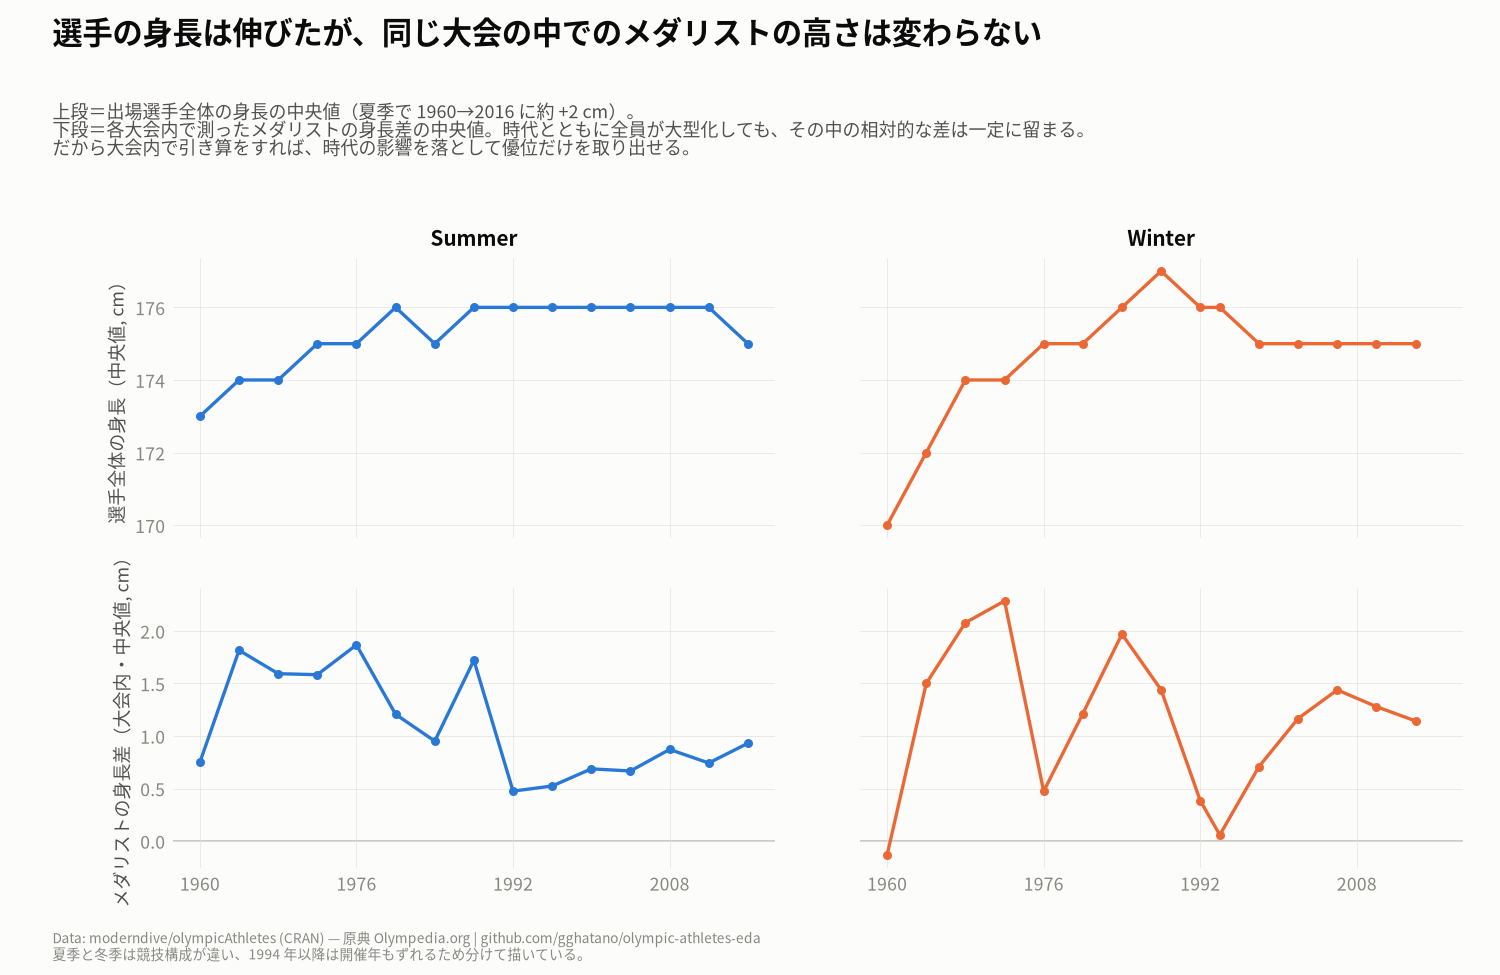
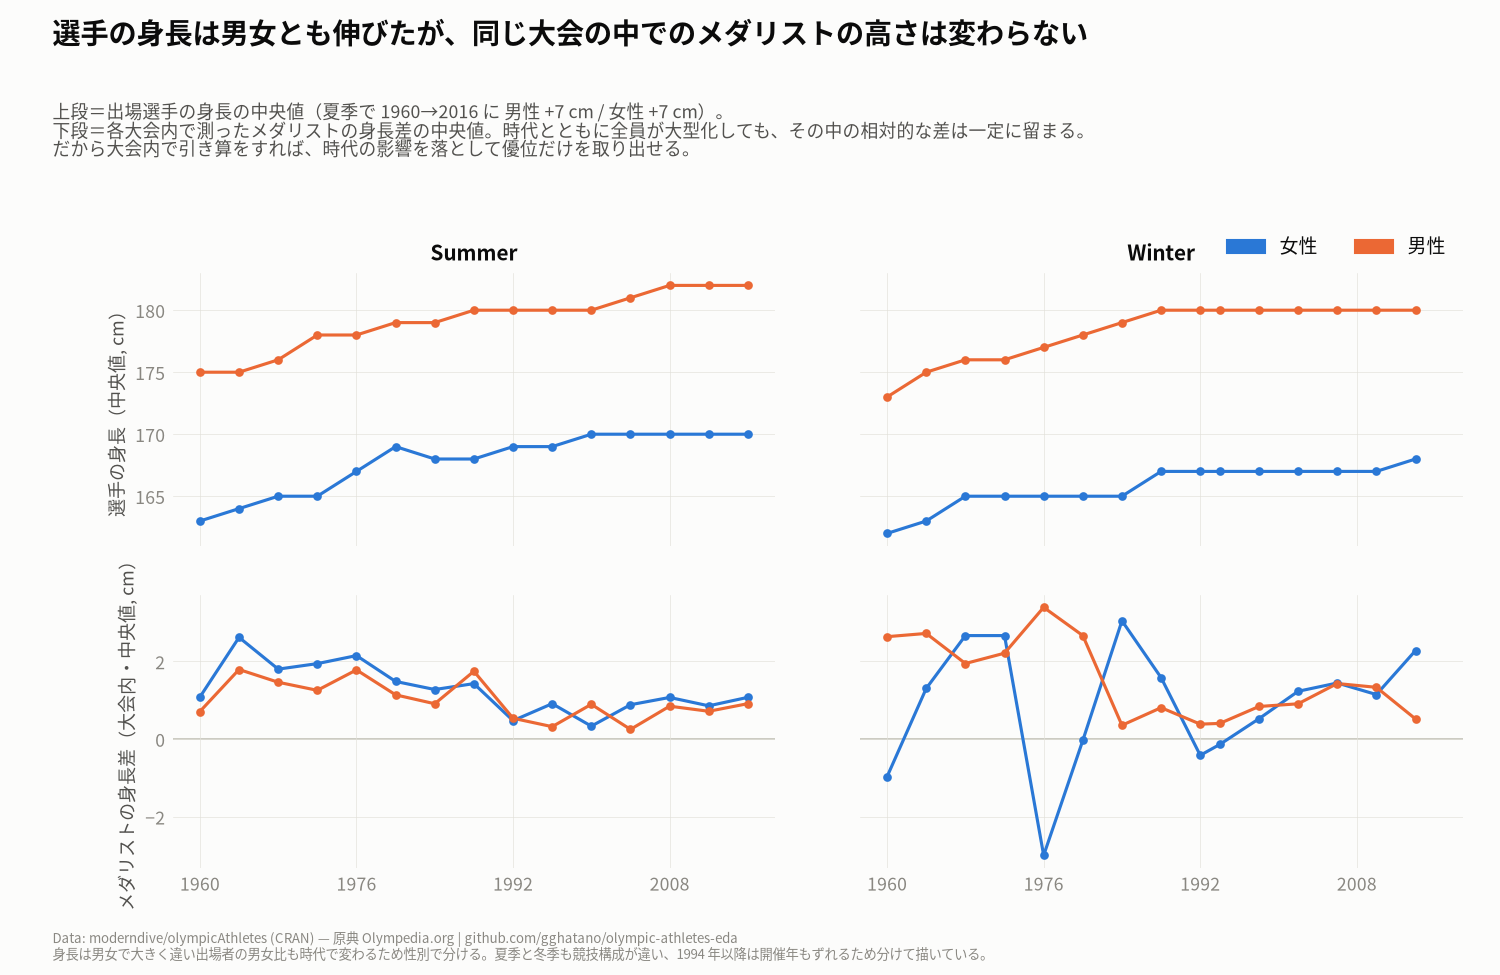
敵対的レビューの指摘を反映（クラスタ頑健化・図2の性別分離） (#4)
A: Replace the plain t-test on per-cell gaps (which wrongly assumed cells
are independent — the same athlete recurs across cells) with a fixed-effects
regression clustered by athlete id. 17 sports stay significant; only
Weightlifting drops out, leaving Gymnastics as the sole significant negative.

B: Split figure 2's height panel by sex so the real +7cm within-sex rise
shows, instead of the sex-composition-confounded +2cm.

diff --git a/reports/eda-report.md b/reports/eda-report.md
@@ -86,12 +86,18 @@ YAML が残り、GitHub 上で表として描画されてしまうため。
 
 ![](../figures/body_medalist_yearly_gap.png)
 
-32 競技のうち、差の平均の 95% 信頼区間が 0 の右に収まるのが
-17 競技、左に収まるのが 2 競技。順位も 1 章とそのまま重なり、
+32 競技のうち、身長差の 95% 信頼区間が 0 の右に収まるのが
+17 競技、左に収まるのが 1 競技。順位も 1 章とそのまま重なり、
 **競泳が中央値 +3.4 cm で突出**し、
-逆に **体操が最も深く負に振れる**（中央値 -1.3 cm）。
+逆に **体操が唯一はっきり負に振れる**（中央値 -1.3 cm）。
 z 化という道具を使わなくても同じ地図が描けるということは、この差が
 手続きの副産物ではなく、データに元から入っている構造だと示している。
+
+> **有意性は素朴な t 検定では測れない。** 同じ選手が複数のセルに跨がる
+> （メダリスト行の約半数が複数回メダルの選手）ため、セルは独立ではない。
+> 身長を (大会 × 種目 × 性別) セル内で除去してから is_medalist に回帰し、
+> 選手 id をクラスタとした頑健標準誤差で判定している。05 が団体競技の
+> チーム相関を扱ったのと同じ発想を、選手の反復出場に当てたもの。
 
 箱の縦の広がりにも意味がある。競泳やテニスは大会をまたいで安定して
 プラス側に出るのに対し、射撃や体操はセルごとのばらつきが大きい。
@@ -99,10 +105,11 @@ z 化という道具を使わなくても同じ地図が描けるということ
 
 ![](../figures/body_height_vs_gap_time.png)
 
-この引き算がなぜ時代を落とせるのかは、上の図が示している。出場選手全体の
-身長は半世紀で伸びているが（左上→右上）、同じ大会の中で測ったメダリストの
+この引き算がなぜ時代を落とせるのかは、上の図が示している。**男女それぞれの**
+身長は半世紀で 7cm 前後伸びているが（上段）、同じ大会の中で測ったメダリストの
 差はほぼ一定に留まる（下段）。全員が大型化しても相対的な差は動かないので、
-大会内で引けば時代の影響だけが消える。
+大会内で引けば時代の影響だけが消える。男女を混ぜると女子種目の増加で伸びが
+相殺されて見えるため、性別で分けて描いている。
 
 ---
 
